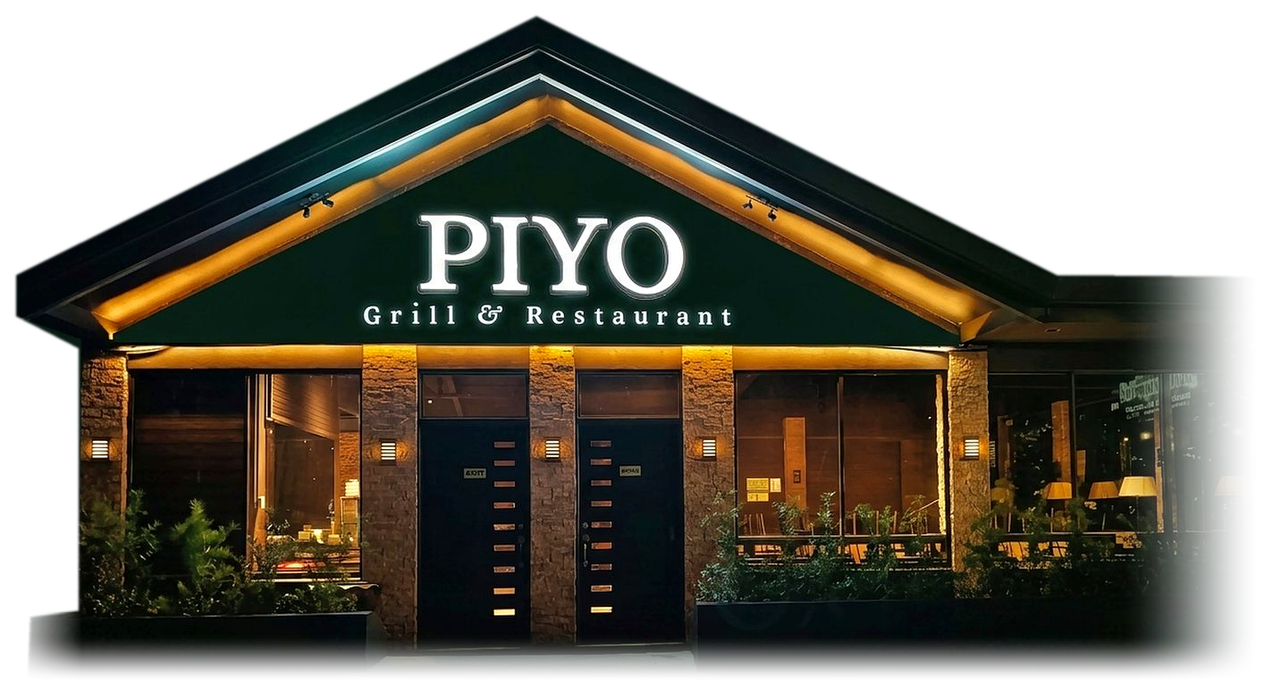
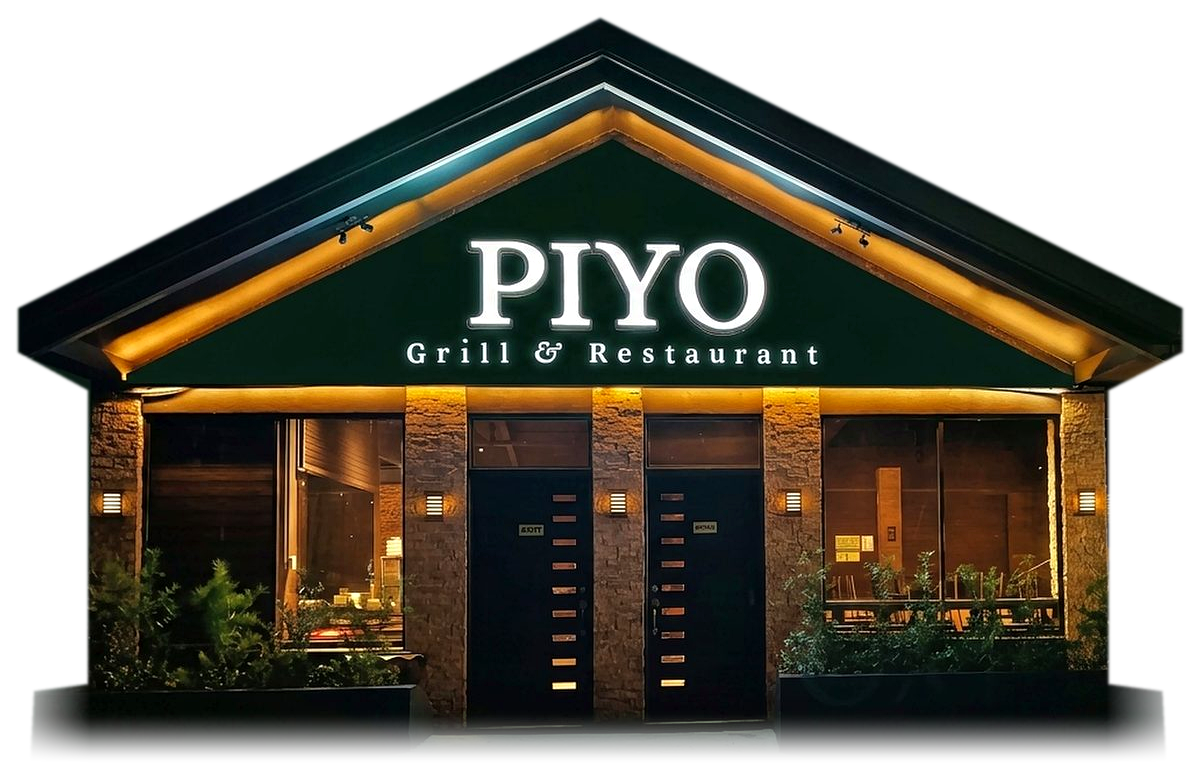
Trim right wing for symmetrical A-frame PIYO house cutout and increase visual scale

diff --git a/src/components/HistorySection.jsx b/src/components/HistorySection.jsx
@@ -29,11 +29,11 @@ export function HistorySection({ onExploreCraft, onVisitPlace }) {
       id="history"
       className="relative flex min-h-[var(--stage-h)] flex-col justify-end overflow-hidden border-y border-[#DFB96F]/15 bg-[#08130B]/30 pb-6 pt-[clamp(210px,33svh,290px)] text-[#FAF6EC] sm:pb-12 sm:pt-[clamp(290px,45svh,440px)] lg:justify-center lg:py-10 2xl:py-14"
     >
-      {/* Mobile / Tablet Top-Framed Transparent PIYO House Directly Over the Live Tagaytay Pine Forest */}
+      {/* Mobile / Tablet Top-Framed Symmetrical Transparent PIYO House Directly Over the Live Tagaytay Pine Forest */}
       <div
         aria-hidden="true"
         data-revealed={revealed ? 'true' : 'false'}
-        className="piyo-reveal-zoom pointer-events-none absolute inset-x-0 top-3 mx-auto flex h-[clamp(215px,36svh,305px)] w-full max-w-[680px] items-center justify-center px-2 sm:top-5 sm:h-[clamp(300px,46svh,440px)] lg:hidden"
+        className="piyo-reveal-zoom pointer-events-none absolute inset-x-0 top-2 mx-auto flex h-[clamp(225px,37svh,315px)] w-full max-w-[660px] items-center justify-center px-1 sm:top-4 sm:h-[clamp(310px,48svh,450px)] lg:hidden"
       >
         <picture className="block h-full w-full">
           <source srcSet="./images/piyo-house-cutout.webp" type="image/webp" />
@@ -42,7 +42,7 @@ export function HistorySection({ onExploreCraft, onVisitPlace }) {
             alt=""
             loading="lazy"
             decoding="async"
-            className="h-full w-full translate-x-[3%] object-contain object-center drop-shadow-[0_24px_38px_rgba(4,12,7,0.85)]"
+            className="h-full w-full object-contain object-center drop-shadow-[0_24px_38px_rgba(4,12,7,0.85)]"
           />
         </picture>
       </div>
@@ -167,26 +167,26 @@ export function HistorySection({ onExploreCraft, onVisitPlace }) {
             </div>
           </div>
 
-          {/* Right Column (Desktop): True Alpha-Transparent PIYO Tagaytay House Directly Inside the Live Pine Forest */}
+          {/* Right Column (Desktop): Stately Full-Scale Symmetrical PIYO Tagaytay House Directly Inside the Live Pine Forest */}
           <div
             data-revealed={revealed ? 'true' : 'false'}
             style={{ transitionDelay: '110ms' }}
-            className="piyo-reveal-zoom relative hidden lg:col-span-7 lg:flex lg:items-center lg:justify-end"
+            className="piyo-reveal-zoom relative hidden lg:col-span-7 lg:flex lg:items-center lg:justify-center"
           >
-            <div className="relative w-full lg:-mr-4 xl:-mr-8">
+            <div className="relative w-full max-w-[780px] lg:w-[108%] lg:-mr-6 xl:w-[114%] xl:-mr-12 2xl:max-w-[860px]">
               {/* Soft grounded forest shadow directly beneath the house foundation */}
               <div
                 aria-hidden="true"
-                className="pointer-events-none absolute -bottom-3 inset-x-[6%] h-10 rounded-full bg-[#040B06]/85 blur-xl"
+                className="pointer-events-none absolute -bottom-3 inset-x-[8%] h-12 rounded-full bg-[#040B06]/88 blur-xl"
               />
               <picture className="relative block w-full">
                 <source srcSet="./images/piyo-house-cutout.webp" type="image/webp" />
                 <img
                   src="./images/piyo-house-cutout.png"
-                  alt="PIYO Grill & Restaurant Tagaytay illuminated gable house nestled among pine trees at twilight"
+                  alt="PIYO Grill & Restaurant Tagaytay illuminated A-frame house nestled among pine trees at twilight"
                   loading="lazy"
                   decoding="async"
-                  className="h-auto w-full select-none object-contain drop-shadow-[0_26px_44px_rgba(3,10,6,0.82)]"
+                  className="h-auto w-full select-none object-contain drop-shadow-[0_28px_48px_rgba(3,10,6,0.86)]"
                 />
               </picture>
             </div>

diff --git a/public/sw.js b/public/sw.js
@@ -1,4 +1,4 @@
-const CACHE_NAME = 'piyo-grill-v9';
+const CACHE_NAME = 'piyo-grill-v10';
 
 self.addEventListener('install', () => {
   self.skipWaiting();
